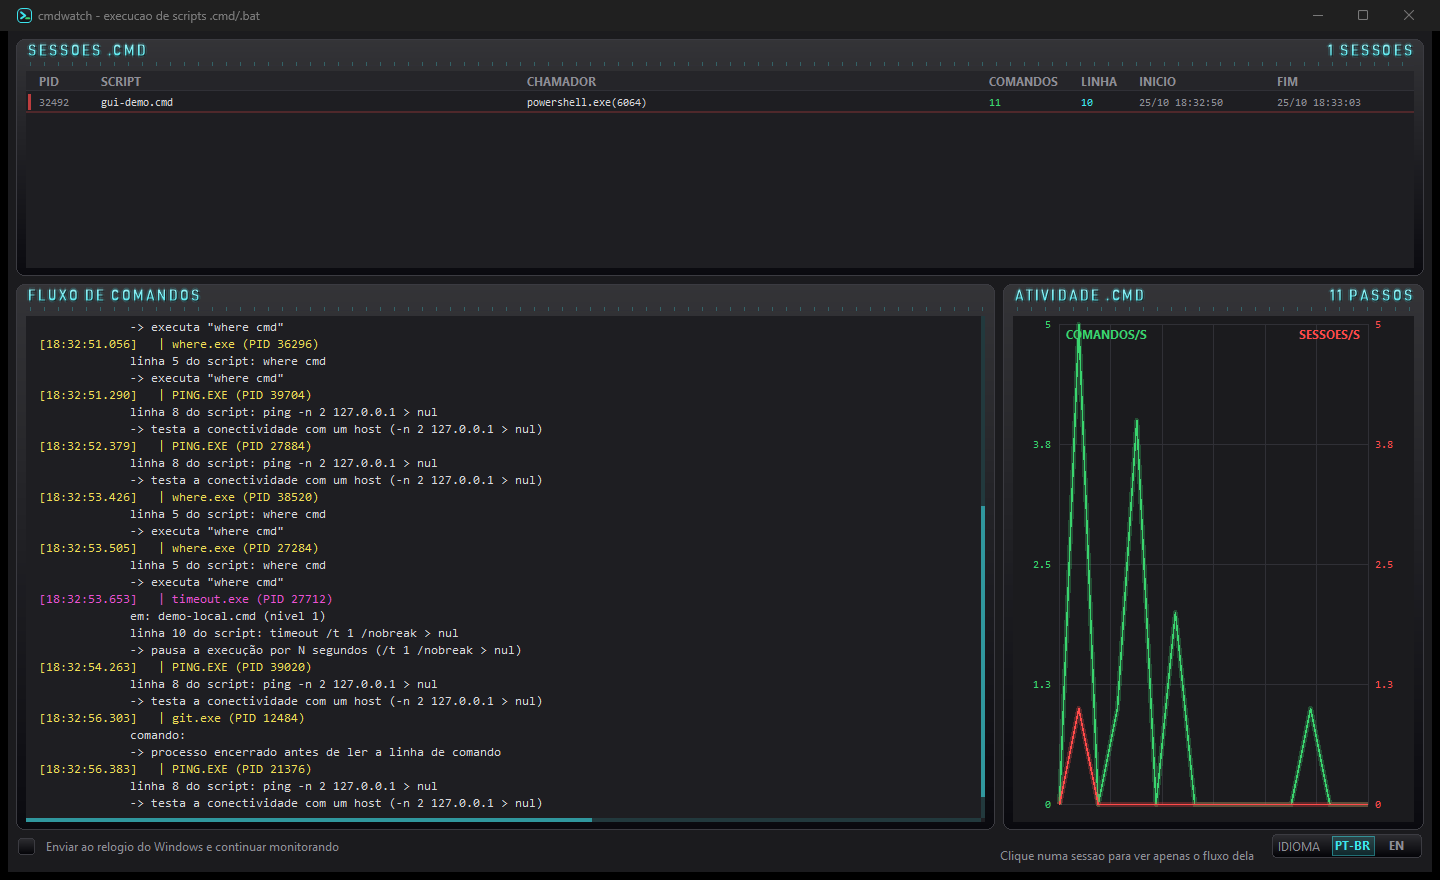
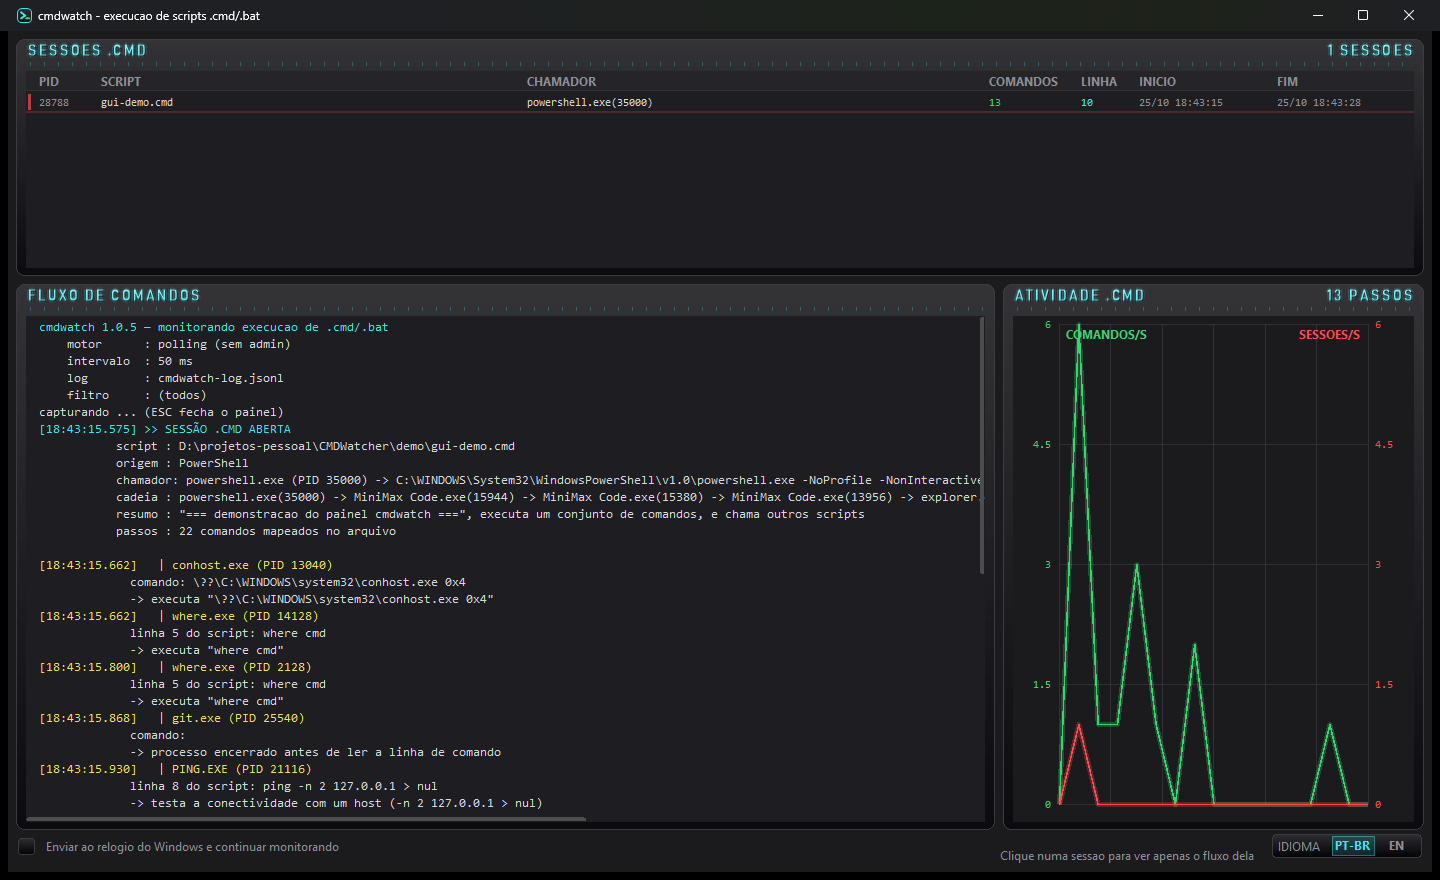
barra de rolagem no tema do Windows
- a barra do fluxo (e o indicador da tabela de sessoes) deixou o neon ciano e
  passou a usar a paleta do sistema: polegar arredondado cinza sobre trilho
  invisivel, no estilo do Windows 11
- o tema claro/escuro e lido do proprio Windows (AppsUseLightTheme)
- o polegar acende no hover e durante o arraste

diff --git a/src/gui/Widgets.cs b/src/gui/Widgets.cs
@@ -278,9 +278,10 @@ namespace CmdWatch.Gui
         private int _charW;
         private int _maxChars;
         private bool _dragV, _dragH;
+        private bool _hot;
         private int _dragOffset;
 
-        private const int BarW = 4;
+        private const int BarW = 6;
         private const int PadX = 10;
 
         public NeonFlow()
@@ -384,31 +385,33 @@ namespace CmdWatch.Gui
             }
             g.ResetClip();
 
-            // barra vertical fina
+            // barra vertical: polegar arredondado, no estilo do Windows
             if (_lines.Count > VisibleLines)
             {
                 Rectangle track = new Rectangle(Width - BarW, 0, BarW, textH);
-                using (SolidBrush b = new SolidBrush(Color.FromArgb(35, Theme.Cyan)))
-                    g.FillRectangle(b, track);
-                int thumb = Math.Max(24, track.Height * VisibleLines / Math.Max(1, _lines.Count));
+                int thumb = Math.Max(28, track.Height * VisibleLines / Math.Max(1, _lines.Count));
                 int max = MaxScrollY;
                 int y = max == 0 ? 0 : (int)((double)_scrollY / max * (track.Height - thumb));
-                using (SolidBrush b = new SolidBrush(Color.FromArgb(140, Theme.Cyan)))
-                    g.FillRectangle(b, new Rectangle(track.X, y, BarW, thumb));
+                Theme.DrawScrollThumb(g, new Rectangle(track.X + 1, y, BarW - 2, thumb), ThumbColor());
             }
 
-            // barra horizontal fina
+            // barra horizontal: idem
             if (hasH)
             {
                 Rectangle track = new Rectangle(0, Height - BarW, textW, BarW);
-                using (SolidBrush b = new SolidBrush(Color.FromArgb(35, Theme.Cyan)))
-                    g.FillRectangle(b, track);
-                int thumb = Math.Max(24, track.Width * (Width - BarW) / Math.Max(1, _maxChars * _charW + PadX));
+                int thumb = Math.Max(28, track.Width * (Width - BarW) / Math.Max(1, _maxChars * _charW + PadX));
                 int max = MaxScrollX;
                 int x = max == 0 ? 0 : (int)((double)_scrollX / max * (track.Width - thumb));
-                using (SolidBrush b = new SolidBrush(Color.FromArgb(140, Theme.Cyan)))
-                    g.FillRectangle(b, new Rectangle(x, track.Y, thumb, BarW));
+                Theme.DrawScrollThumb(g, new Rectangle(x, track.Y + 1, thumb, BarW - 2), ThumbColor());
             }
+        }
+
+        /// <summary>Cor do polegar: normal, sobre o mouse ou arrastando.</summary>
+        private Color ThumbColor()
+        {
+            if (_dragV || _dragH) return ScrollTheme.ThumbActive;
+            if (_hot) return ScrollTheme.ThumbHot;
+            return ScrollTheme.Thumb;
         }
 
         private Rectangle VerticalTrack()
@@ -467,10 +470,13 @@ namespace CmdWatch.Gui
         protected override void OnMouseMove(MouseEventArgs e)
         {
             base.OnMouseMove(e);
+            bool hot = VerticalTrack().Contains(e.Location) || HorizontalTrack().Contains(e.Location);
+            if (hot != _hot) { _hot = hot; Invalidate(); }
+
             if (_dragV)
             {
                 Rectangle v = VerticalTrack();
-                int thumb = Math.Max(24, v.Height * VisibleLines / Math.Max(1, _lines.Count));
+                int thumb = Math.Max(28, v.Height * VisibleLines / Math.Max(1, _lines.Count));
                 int usable = Math.Max(1, v.Height - thumb);
                 int rel = e.Y - v.Y - _dragOffset;
                 if (rel < 0) rel = 0;
@@ -484,7 +490,7 @@ namespace CmdWatch.Gui
             {
                 Rectangle h = HorizontalTrack();
                 int total = Math.Max(1, _maxChars * _charW + PadX);
-                int thumb = Math.Max(24, h.Width * (Width - BarW) / total);
+                int thumb = Math.Max(28, h.Width * (Width - BarW) / total);
                 int usable = Math.Max(1, h.Width - thumb);
                 int rel = e.X - h.X - _dragOffset;
                 if (rel < 0) rel = 0;
@@ -493,6 +499,12 @@ namespace CmdWatch.Gui
                 _scrollX = max == 0 ? 0 : (int)((double)rel / usable * max);
                 Invalidate();
             }
+        }
+
+        protected override void OnMouseLeave(EventArgs e)
+        {
+            base.OnMouseLeave(e);
+            if (_hot) { _hot = false; Invalidate(); }
         }
 
         protected override void OnMouseUp(MouseEventArgs e)
@@ -722,10 +734,9 @@ namespace CmdWatch.Gui
             if (Rows.Count > visible)
             {
                 int trackH = visible * RowHeight;
-                int barH = Math.Max(24, trackH * visible / Rows.Count);
+                int barH = Math.Max(28, trackH * visible / Rows.Count);
                 int barY = HeaderH + (trackH - barH) * _scroll / Math.Max(1, Rows.Count - visible);
-                using (SolidBrush br = new SolidBrush(Color.FromArgb(90, Theme.Cyan)))
-                    g.FillRectangle(br, new Rectangle(Width - 4, barY, 3, barH));
+                Theme.DrawScrollThumb(g, new Rectangle(Width - 6, barY, 4, barH), ScrollTheme.Thumb);
             }
         }
 

diff --git a/src/gui/ScrollTheme.cs b/src/gui/ScrollTheme.cs
@@ -1,0 +1,55 @@
+using System;
+using System.Drawing;
+
+namespace CmdWatch.Gui
+{
+    /// <summary>
+    /// Cores da barra de rolagem conforme o **tema do Windows** (claro/escuro).
+    /// A barra desenhada a mao usa a paleta do sistema - polegar arredondado
+    /// cinza sobre trilho invisivel, como no Windows 11 - em vez de uma cor
+    /// inventada pelo painel.
+    /// </summary>
+    internal static class ScrollTheme
+    {
+        public static readonly Color Thumb;
+        public static readonly Color ThumbActive;
+        public static readonly Color ThumbHot;
+        public static readonly bool Dark;
+
+        static ScrollTheme()
+        {
+            Dark = IsWindowsDark();
+            if (Dark)
+            {
+                // Windows 11 escuro
+                Thumb = Color.FromArgb(0x4D, 0x4D, 0x4D);
+                ThumbHot = Color.FromArgb(0x5C, 0x5C, 0x5C);
+                ThumbActive = Color.FromArgb(0x6E, 0x6E, 0x6E);
+            }
+            else
+            {
+                // Windows 11 claro
+                Thumb = Color.FromArgb(0xC8, 0xC8, 0xC8);
+                ThumbHot = Color.FromArgb(0xD6, 0xD6, 0xD6);
+                ThumbActive = Color.FromArgb(0xB4, 0xB4, 0xB4);
+            }
+        }
+
+        /// <summary>Le o tema de aplicativos do Windows (0 = escuro).</summary>
+        private static bool IsWindowsDark()
+        {
+            try
+            {
+                using (Microsoft.Win32.RegistryKey k = Microsoft.Win32.Registry.CurrentUser
+                    .OpenSubKey(@"Software\Microsoft\Windows\CurrentVersion\Themes\Personalize"))
+                {
+                    if (k == null) return true;
+                    object v = k.GetValue("AppsUseLightTheme");
+                    if (v == null) return true;
+                    return Convert.ToInt32(v) == 0;
+                }
+            }
+            catch { return true; }
+        }
+    }
+}

diff --git a/src/gui/Theme.cs b/src/gui/Theme.cs
@@ -152,6 +152,17 @@ namespace CmdWatch.Gui
                 default: return Text;
             }
         }
+
+        /// <summary>Desenha o polegar de uma barra de rolagem (ponta arredondada).</summary>
+        public static void DrawScrollThumb(Graphics g, Rectangle r, Color fill)
+        {
+            if (r.Width <= 0 || r.Height <= 0) return;
+            int radius = r.Width / 2;
+            if (radius < 2) radius = 2;
+            using (GraphicsPath p = RoundRect(r, radius))
+            using (SolidBrush b = new SolidBrush(fill))
+                g.FillPath(b, p);
+        }
     }
 
     /// <summary>

diff --git a/src/Program.cs b/src/Program.cs
@@ -12,7 +12,7 @@ namespace CmdWatch
 {
     internal static class Program
     {
-        internal const string Version = "1.0.4";
+        internal const string Version = "1.0.5";
         private static ConsoleColor _lastColor = ConsoleColor.Gray;
 
         [STAThread]

diff --git a/README.md b/README.md
@@ -37,13 +37,13 @@ em tempo real:
 Executável pronto para Windows 10/11 — arquivo único, sem DLLs e sem runtime extra
 (precisa apenas do .NET Framework 4.8, já presente no sistema):
 
-**[⬇ cmdwatch v1.0.4 — cmdwatch.exe (498 KB)](https://github.com/dellanio/cmdwatch/releases/latest/download/cmdwatch.exe)**
+**[⬇ cmdwatch v1.0.5 — cmdwatch.exe (499 KB)](https://github.com/dellanio/cmdwatch/releases/latest/download/cmdwatch.exe)**
 
 | | |
 |---|---|
-| Versão | 1.0.4 |
-| Tamanho | 498 KB (509.952 bytes) |
[1 lines of base64/hex data omitted]
+| Versão | 1.0.5 |
+| Tamanho | 499 KB (510.464 bytes) |
[1 lines of base64/hex data omitted]
 | Página da release | [releases/latest](https://github.com/dellanio/cmdwatch/releases/latest) |
 
 Depois de baixar:
@@ -109,8 +109,10 @@ O formato é gerado por um módulo só (`src/HumanFormat.cs`), usado tanto pelo 
 quanto pelo painel — os dois não podem divergir.
 
 As linhas **não quebram** (como no terminal): o fluxo rola na horizontal quando a
-mensagem é mais larga que o painel. A rolagem é desenhada à mão, com as barras finas
-ciano do tema, no lugar das barras claras do Windows.
+mensagem é mais larga que o painel. A rolagem é desenhada à mão, mas no **estilo do
+Windows**: polegar arredondado cinza sobre trilho invisível, nas cores do tema do
+sistema (claro ou escuro), em vez das barras claras do Windows — que destoariam do
+tema escuro do painel.
 
 ### Filtrar por sessão
 
@@ -399,6 +401,7 @@ cmdwatch/
 │   ├── Program.cs       CLI, saída humana, modos analyze e trace
 │   └── gui/             painel WinForms (dashboard ao vivo)
 │       ├── Theme.cs         paleta cinza + matriz de pixels 5×7 + fonte dos títulos
+│       ├── ScrollTheme.cs   cores da barra de rolagem conforme o tema do Windows
 │       ├── TechTitle.cs     renderizador dos títulos (tracking, gradiente, halo neon)
 │       ├── Widgets.cs       painéis, tabela de sessões, gráfico, fluxo e seletor de idioma
 │       ├── AppIcon.cs       carrega o ícone embutido (janela e bandeja)
